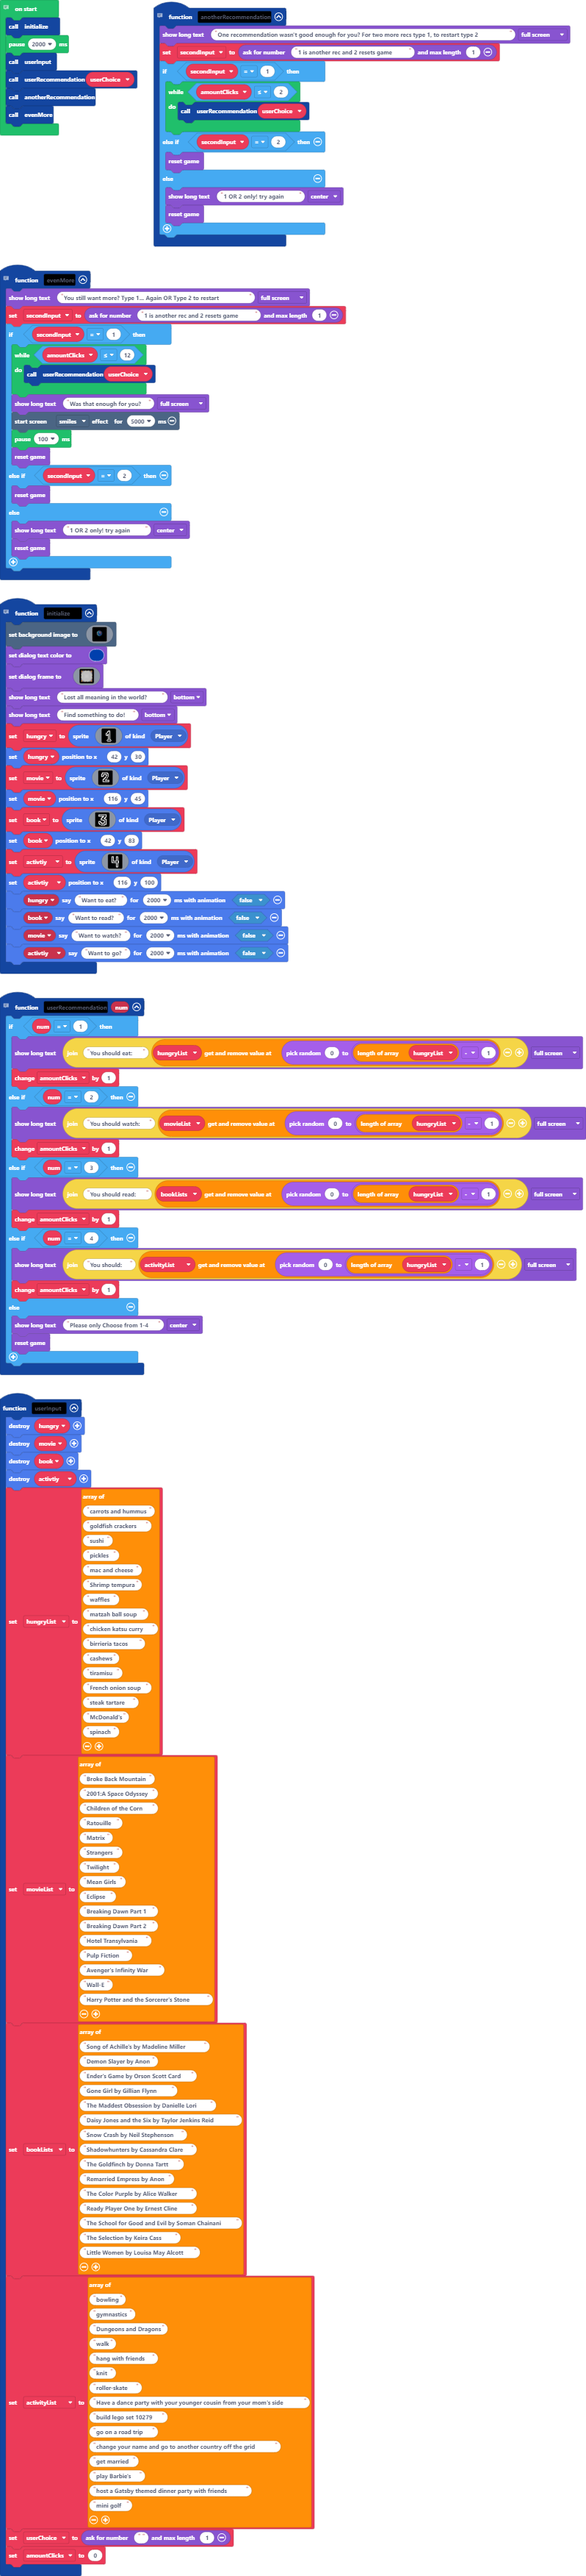
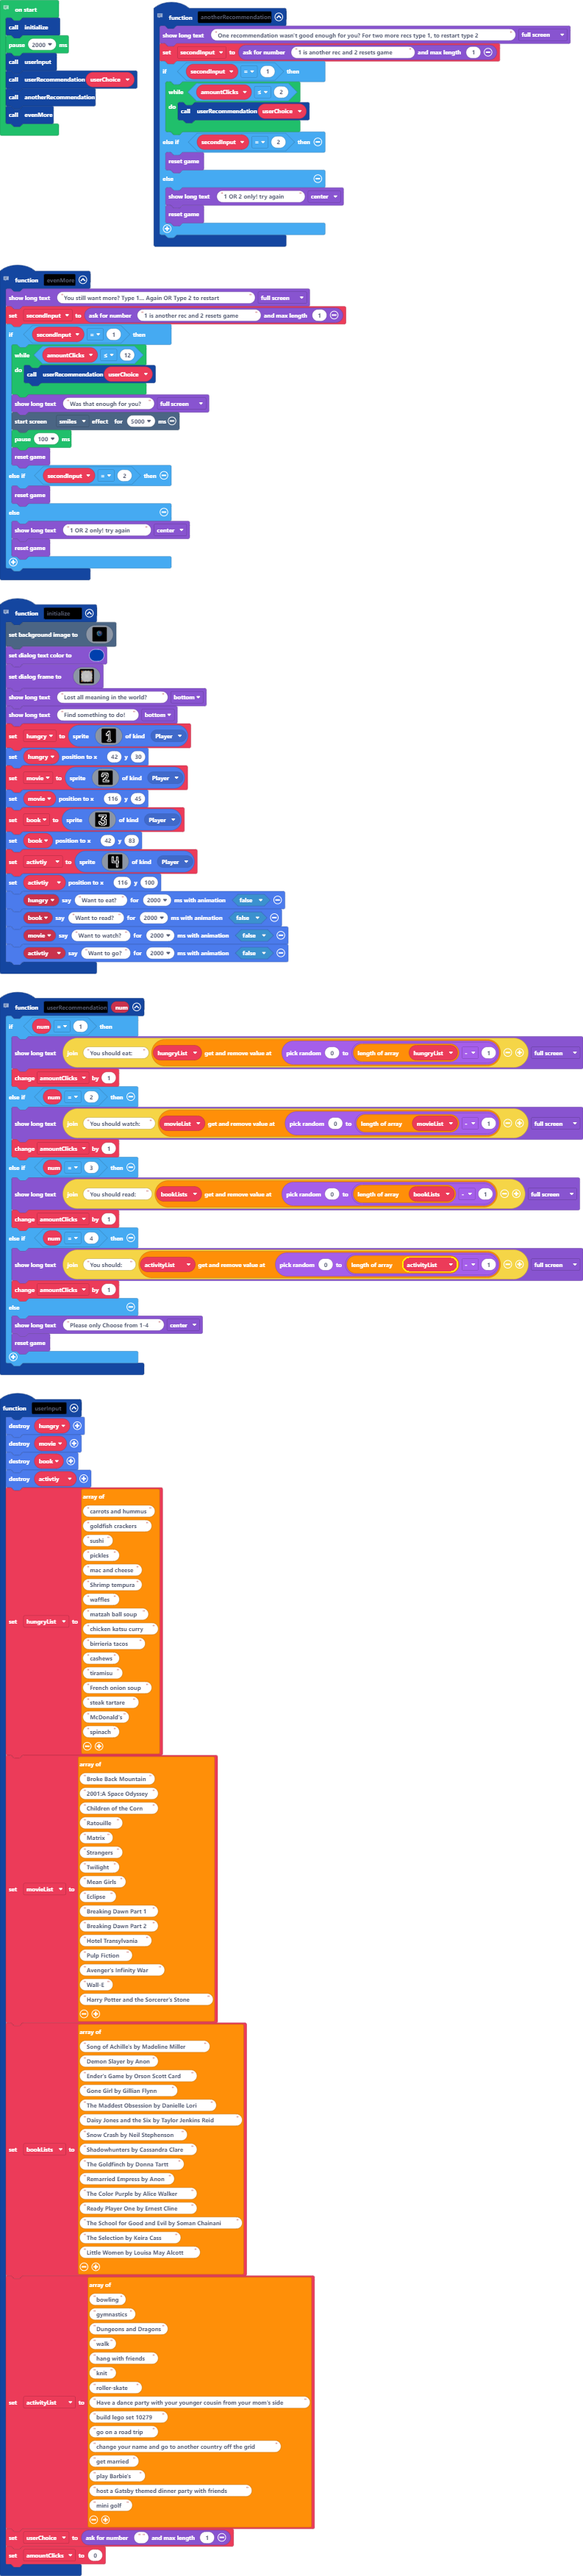
Update main.blocks, main.ts

diff --git a/main.ts b/main.ts
@@ -314,13 +314,13 @@ function userRecommendation (num: number) {
         game.showLongText("You should eat: " + hungryList.removeAt(randint(0, hungryList.length - 1)), DialogLayout.Full)
         amountClicks += 1
     } else if (num == 2) {
-        game.showLongText("You should watch: " + movieList.removeAt(randint(0, hungryList.length - 1)), DialogLayout.Full)
+        game.showLongText("You should watch: " + movieList.removeAt(randint(0, movieList.length - 1)), DialogLayout.Full)
         amountClicks += 1
     } else if (num == 3) {
-        game.showLongText("You should read: " + bookLists.removeAt(randint(0, hungryList.length - 1)), DialogLayout.Full)
+        game.showLongText("You should read: " + bookLists.removeAt(randint(0, bookLists.length - 1)), DialogLayout.Full)
         amountClicks += 1
     } else if (num == 4) {
-        game.showLongText("You should: " + activityList.removeAt(randint(0, hungryList.length - 1)), DialogLayout.Full)
+        game.showLongText("You should: " + activityList.removeAt(randint(0, activityList.length - 1)), DialogLayout.Full)
         amountClicks += 1
     } else {
         game.showLongText("Please only Choose from 1-4", DialogLayout.Center)
